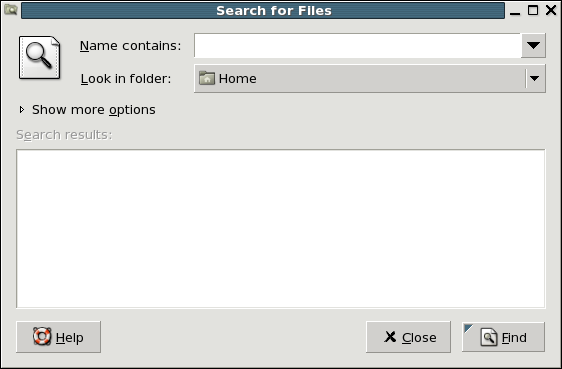
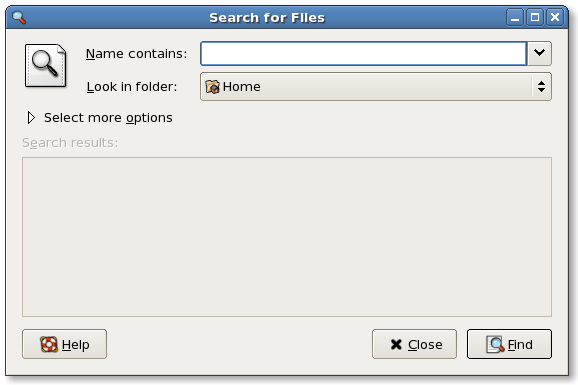
Change "Show more options" to "Select more options" to clear up confusion
2005-05-14  Dennis Cranston <dennis_cranston@yahoo.com>

	* gsearchtool.c, gnome-search-tool.schemas.in,
	  help/C/gnome-search-tool.xml, and
	  help/C/figures/gnome-search-tool_window.png: Change
	  "Show more options" to "Select more options" to
	  clear up confusion reported in bug #303900.

Changed region(s): [[0.0, 0.0, 1.0, 1.0]]

diff --git a/gsearchtool.c b/gsearchtool.c
@@ -2680,7 +2680,7 @@ gsearch_app_create (GSearchWindow * gsearch)
 	g_free (locale_string);
 	g_free (utf8_string);
 
-	gsearch->show_more_options_expander = gtk_expander_new_with_mnemonic (_("Show more _options"));
+	gsearch->show_more_options_expander = gtk_expander_new_with_mnemonic (_("Select more _options"));
 	gtk_box_pack_start (GTK_BOX (container), gsearch->show_more_options_expander, FALSE, FALSE, 0);
 	g_signal_connect (G_OBJECT (gsearch->show_more_options_expander), "notify::expanded",
 			  G_CALLBACK (click_expander_cb), (gpointer) gsearch);
@@ -2689,7 +2689,7 @@ gsearch_app_create (GSearchWindow * gsearch)
 	gtk_box_pack_start (GTK_BOX (container), GTK_WIDGET (gsearch->available_options_vbox), FALSE, FALSE, 0);
 	
 	if (gsearch->is_window_accessible) { 
-		add_atk_namedesc (GTK_WIDGET (gsearch->show_more_options_expander), _("Show more options"), _("Click to expand or collapse the list of available options."));
+		add_atk_namedesc (GTK_WIDGET (gsearch->show_more_options_expander), _("Select more options"), _("Click to expand or collapse the list of available options."));
 		add_atk_relation (GTK_WIDGET (gsearch->available_options_vbox), GTK_WIDGET (gsearch->show_more_options_expander), ATK_RELATION_CONTROLLED_BY);
 		add_atk_relation (GTK_WIDGET (gsearch->show_more_options_expander), GTK_WIDGET (gsearch->available_options_vbox), ATK_RELATION_CONTROLLER_FOR);
 	}
